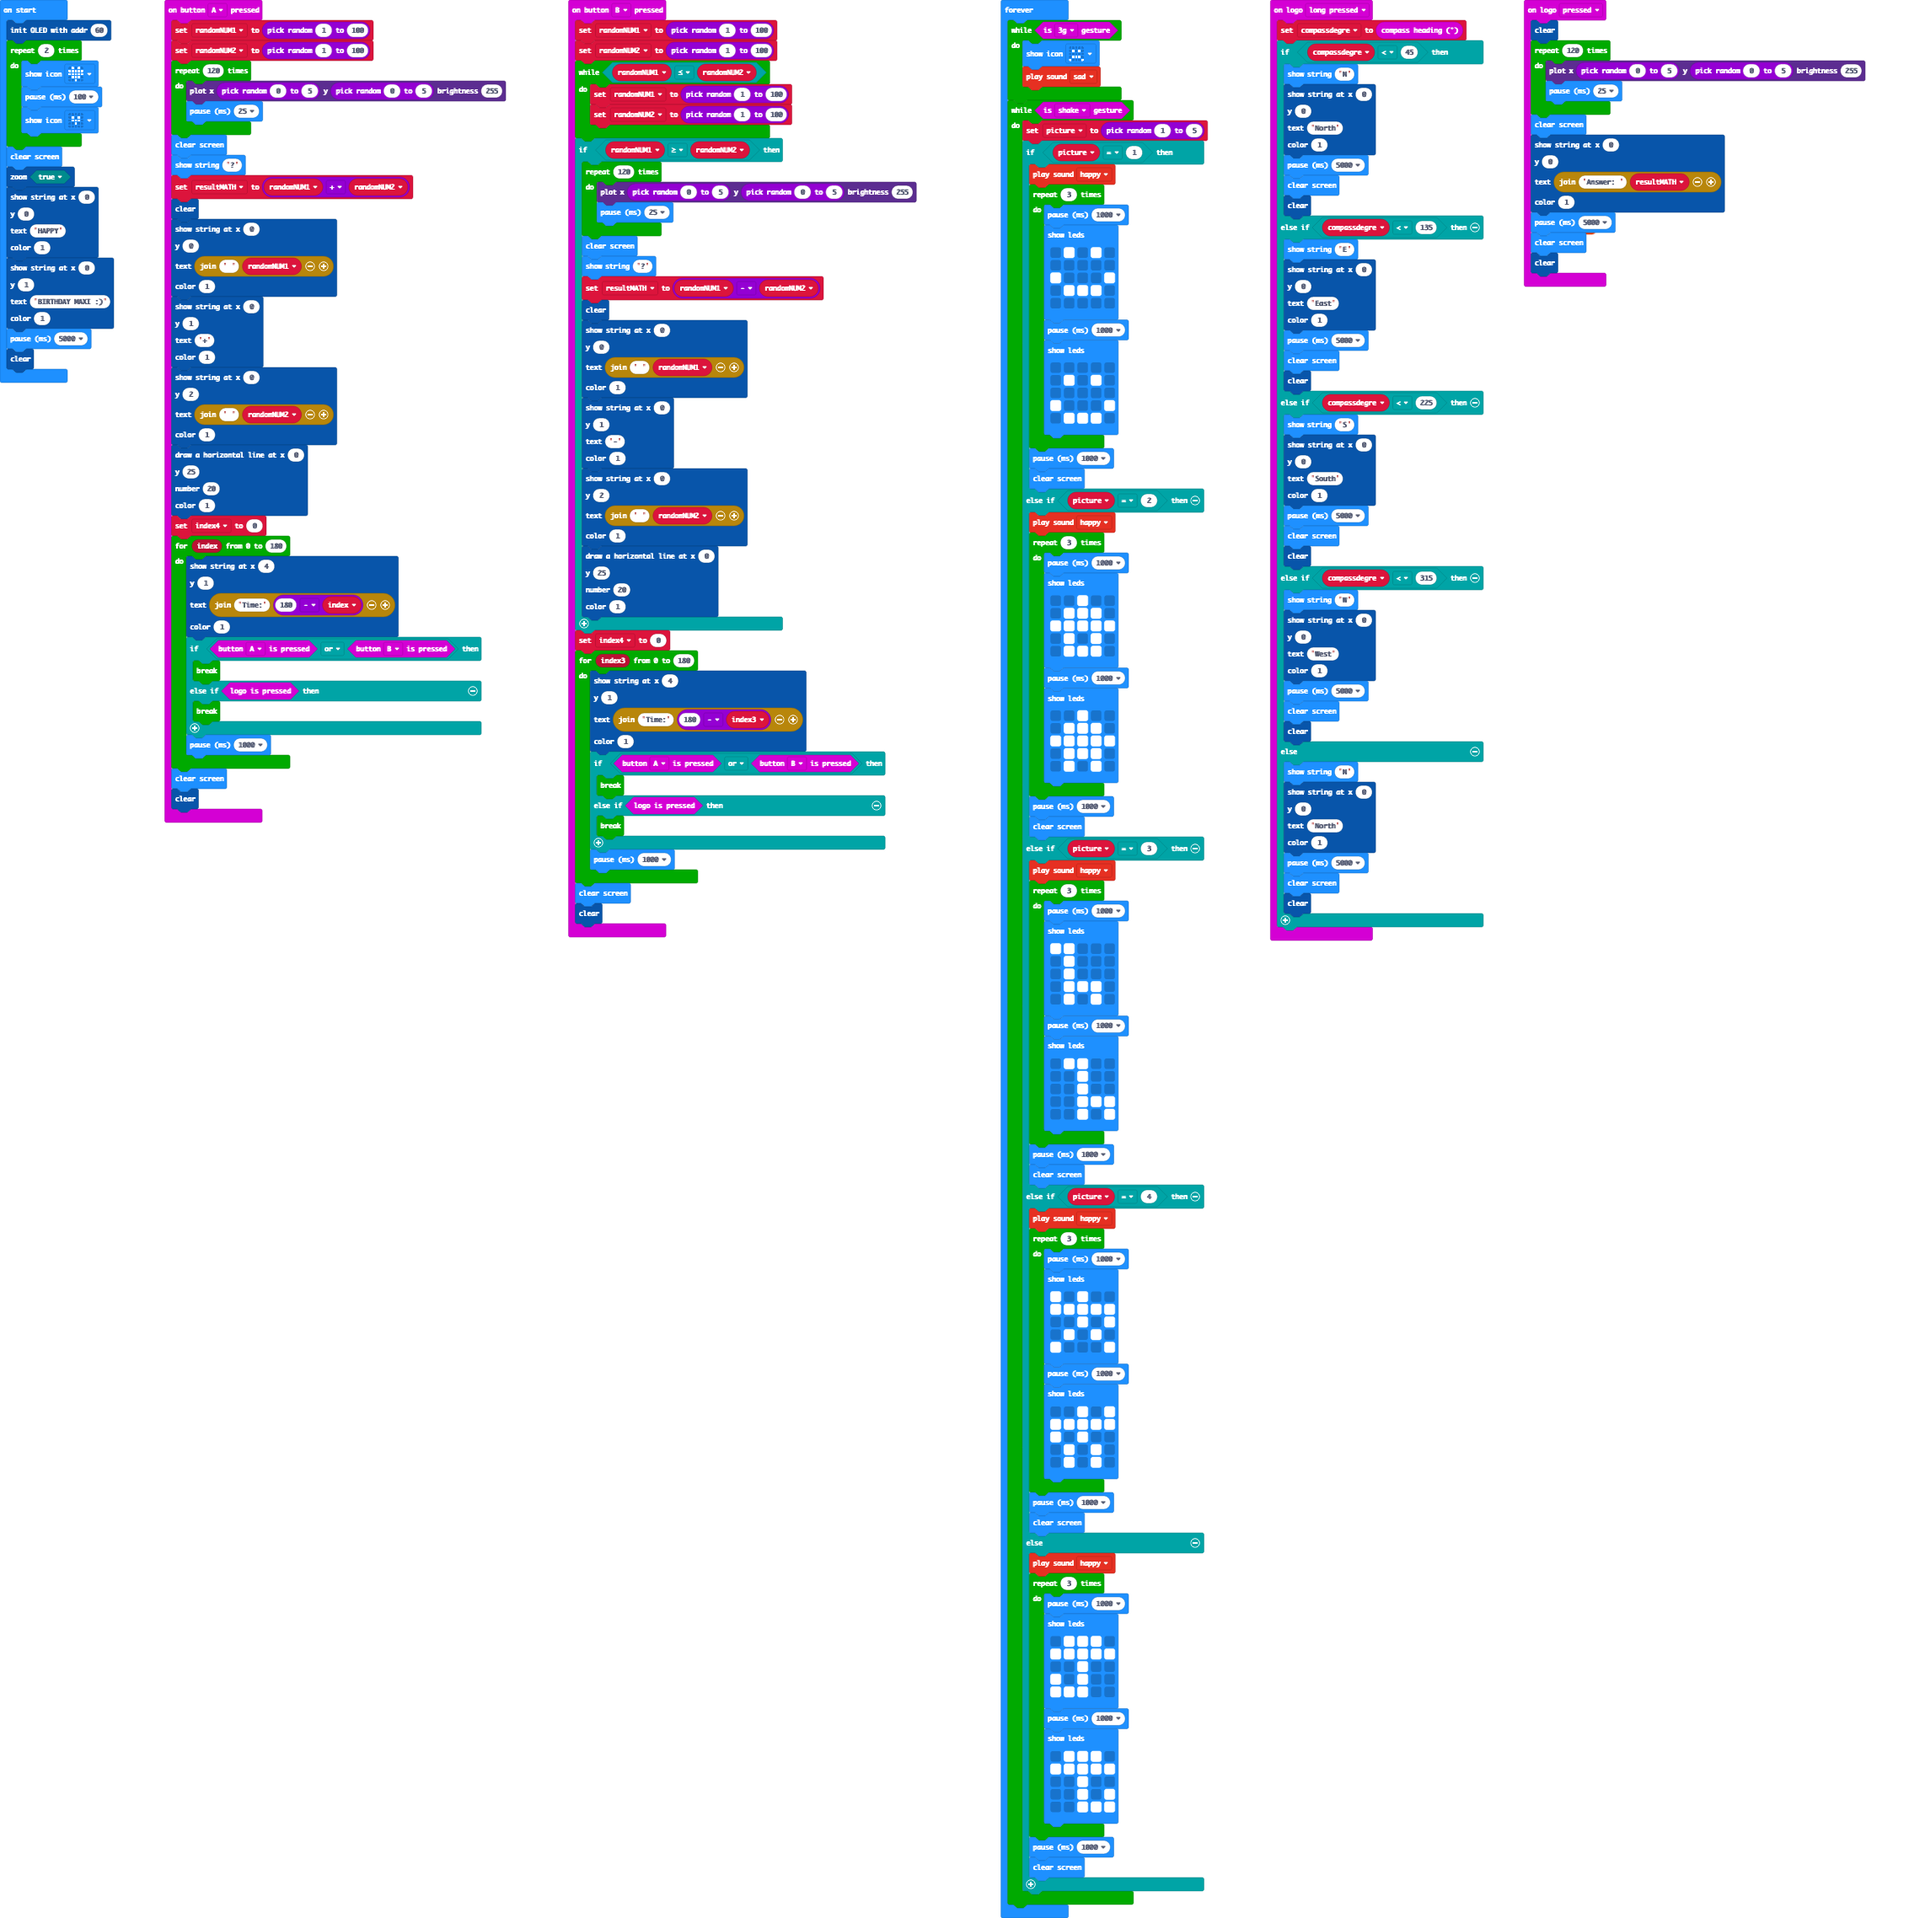
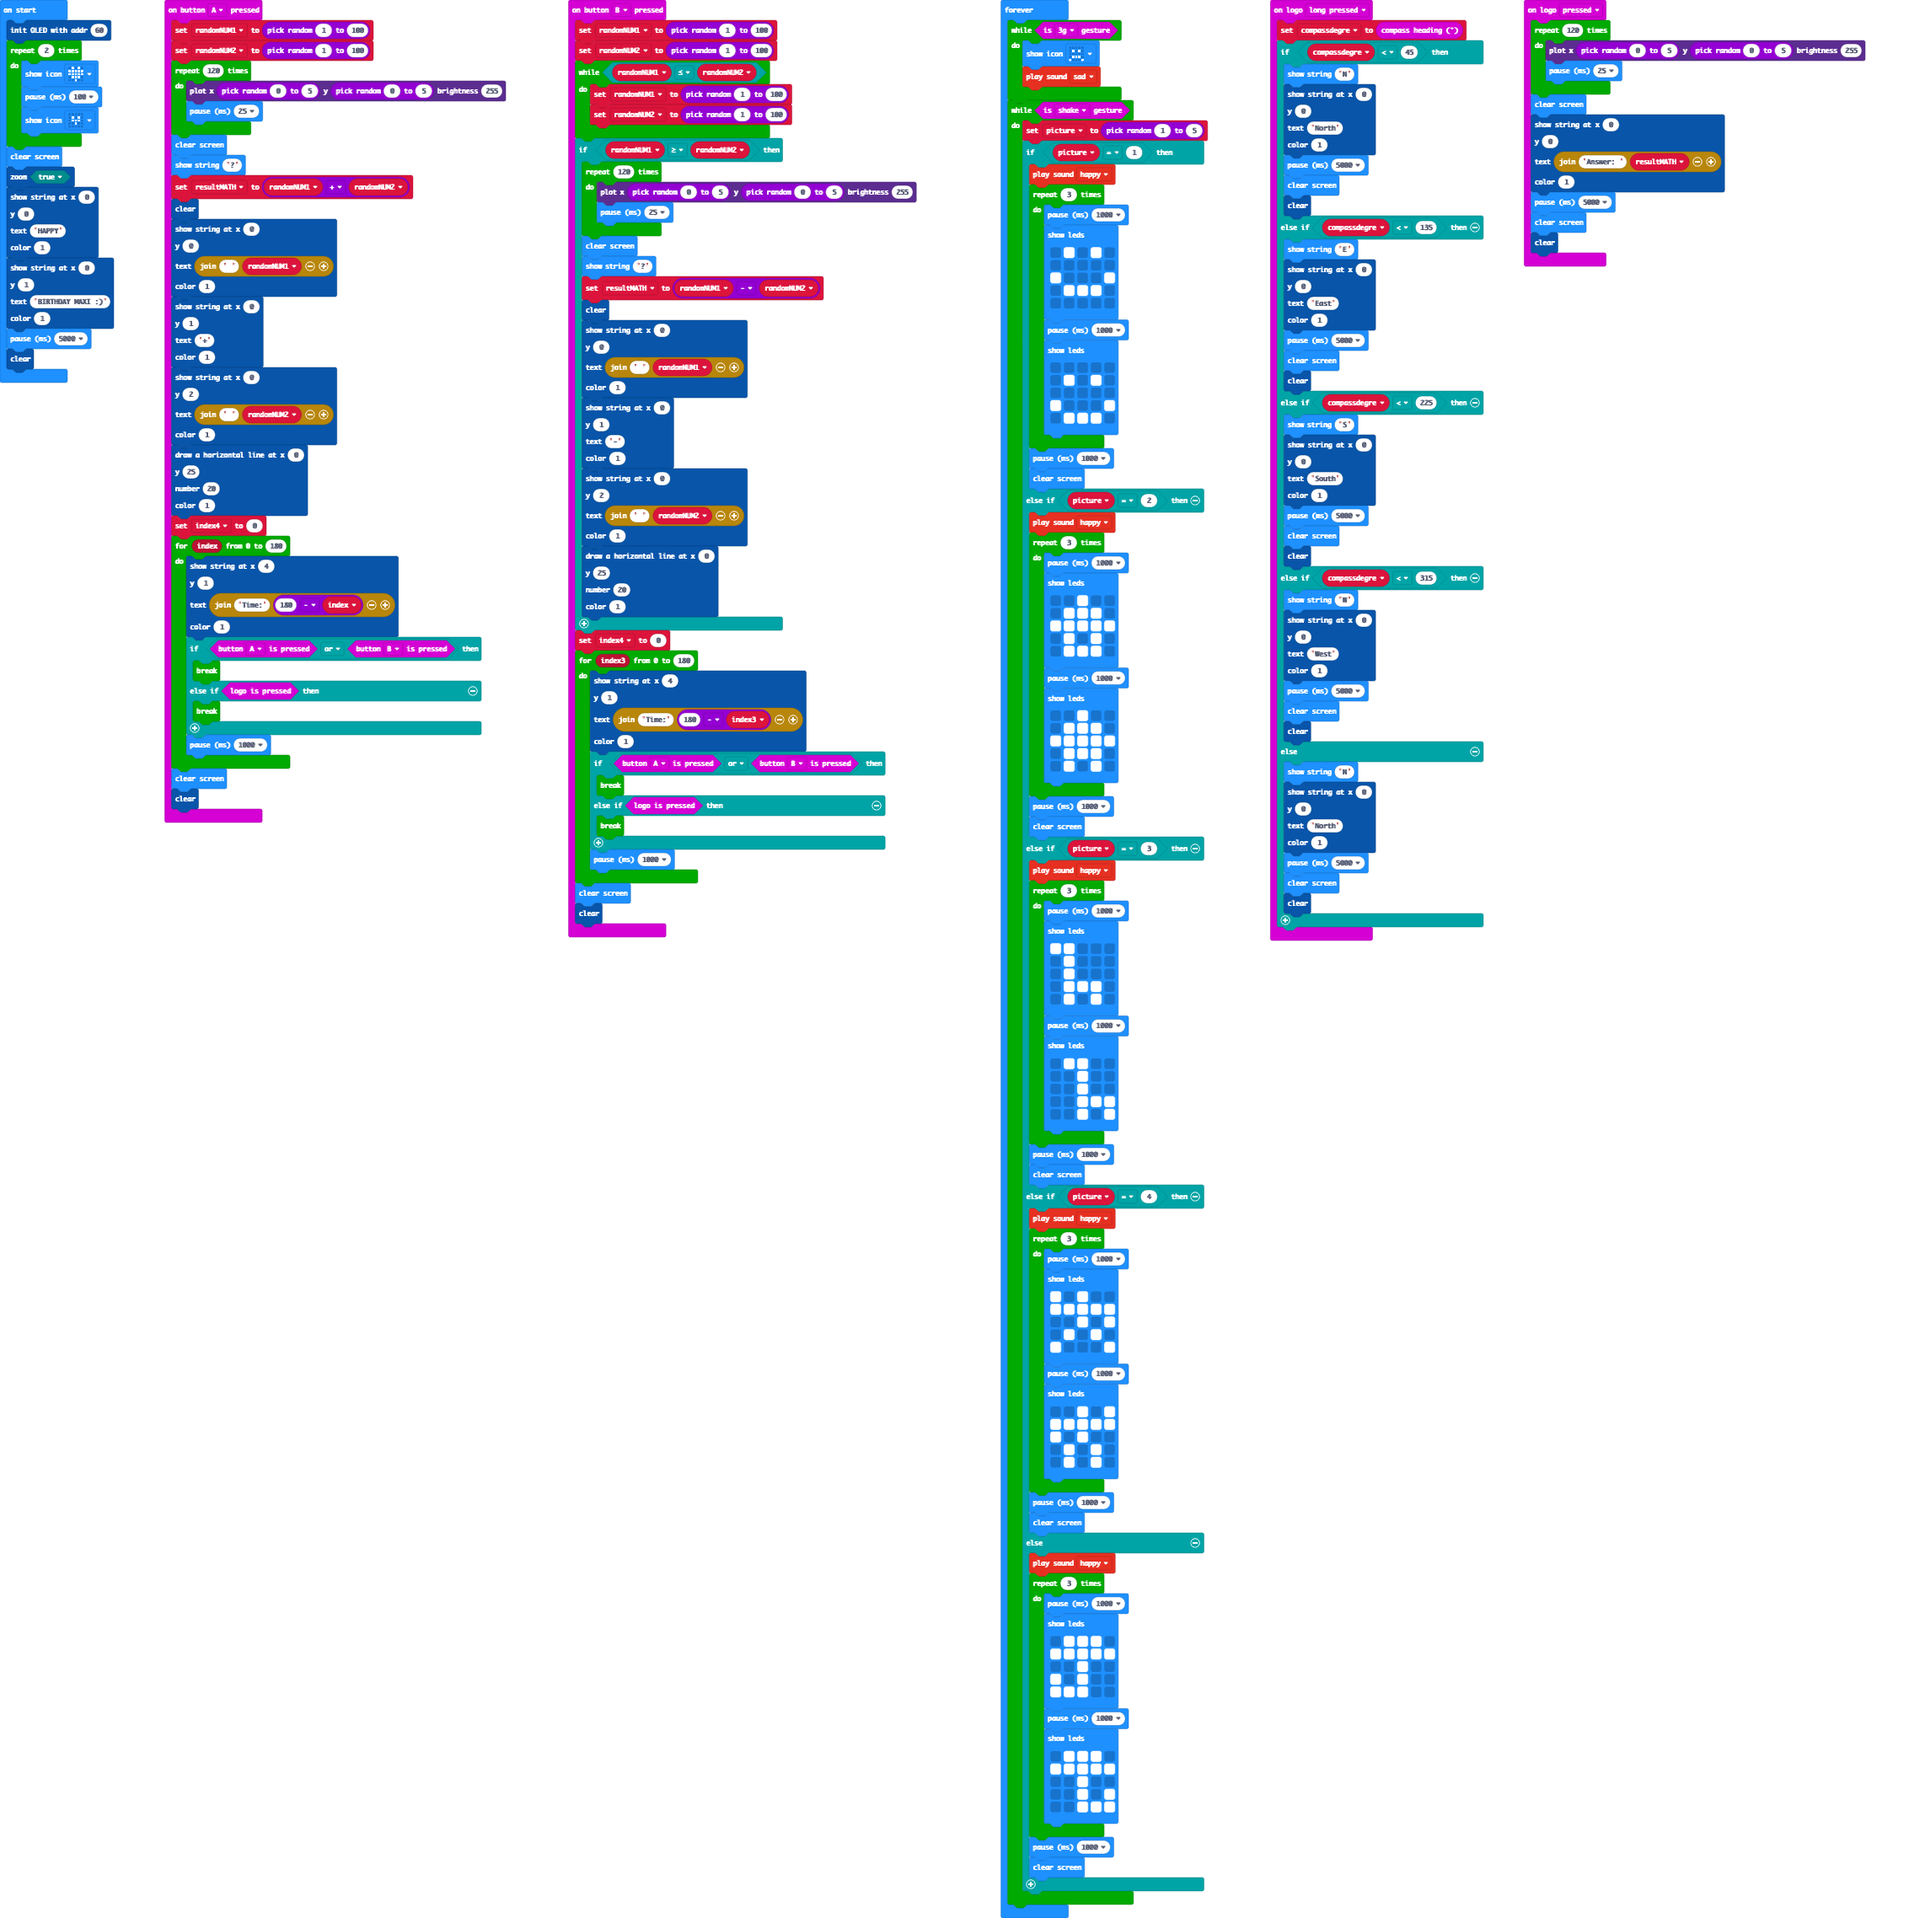
Update main.blocks, main.ts

Changed region(s): [[0.8035, 0.0, 0.989, 0.156]]

diff --git a/main.ts b/main.ts
@@ -170,7 +170,6 @@ input.onButtonPressed(Button.B, function () {
     OLED12864_I2C.clear()
 })
 input.onLogoEvent(TouchButtonEvent.Pressed, function () {
-    OLED12864_I2C.clear()
     for (let index = 0; index < 120; index++) {
         led.plotBrightness(randint(0, 5), randint(0, 5), 255)
         basic.pause(25)
